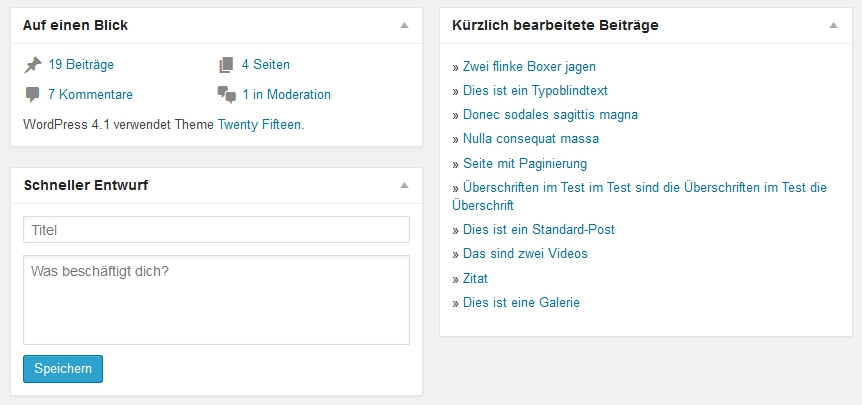
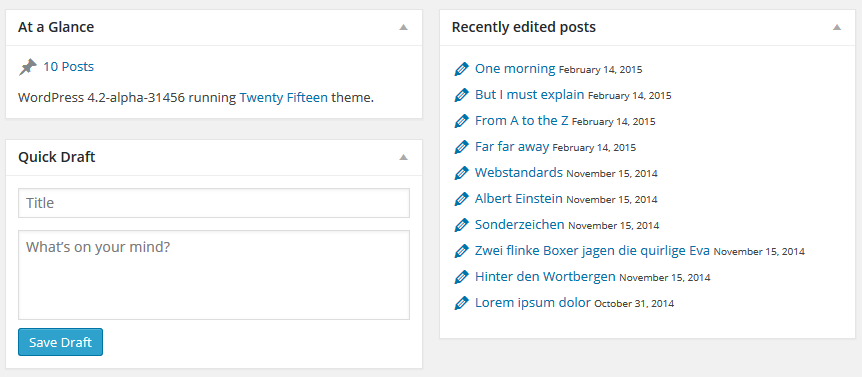
updated screenshot-1.png new screenshot-2.png various improvements
git-svn-id: https://plugins.svn.wordpress.org/admin-dashboard-last-edits/trunk@1089745 b8457f37-d9ea-0310-8a92-e5e31aec5664

diff --git a/admin-dashboard-last-edits.php b/admin-dashboard-last-edits.php
@@ -2,8 +2,8 @@
 /**
  * Plugin Name: Admin Dashboard Last Edits
  * Plugin URI: http://wpdoc.de/plugins/
- * Description: Easy and lightweight solution for showing the last edited posts on the admin dashboard.
- * Version: 1.0 
+ * Description: Easy and lightweight solution for showing the last edited posts and pages on the admin dashboard.
+ * Version: 1.1 
  * Author: Johannes Ries
  * Author URI: http://wpdoc.de
  * Text Domain: admin-dashboard-last-edits
@@ -43,13 +43,15 @@ function admin_dashboard_last_edits_dashboard_widget() {
 
 /**
  * @todo Icons for post formats
- * @todo Add option to configure how many posts should be shown 
+ * @todo Add option to configure how many posts should be shown
+ * @todo Add option to show only posts or pages   
  */ 
   
   if ( $posts ) {
+    $date_format = get_option( 'date_format' );
     echo '<ul>';
-    foreach ( $posts as $post ) { 
-      printf('<li>&raquo; <a href="%1$s">%2$s</a></li>', esc_html( get_permalink( $post->ID )), esc_html( $post->post_title )); 
+    foreach ( $posts as $post ) {
+      printf( __( '<li><a href="%1$s" title="Edit %3$s"><span class="dashicons dashicons-edit"></span></a> <a href="%2$s" title="View %3$s on website">%3$s</a> <small>%4$s</small>', 'admin-dashboard-last-edits' ), esc_html( get_edit_post_link( $post->ID ) ), esc_html( get_permalink( $post->ID ) ), esc_html( $post->post_title ), esc_html( get_post_modified_time( $date_format, false, $post->ID, true )) ); 
     }
     echo '</ul>';
   }

diff --git a/README.md b/README.md
@@ -1,2 +1,33 @@
-# admin-dashboard-last-edits
-Easy and lightweight solution for showing the last edited posts on the WordPress admin dashboard.
+# Admin Dashboard Last Edits
+Easy and lightweight solution for showing the last edited posts and pages on the WordPress admin dashboard.
+
+## Description
+Admin Dashboard Last Edits is an asy and lightweight solution for showing the last edited posts and pages on the admin dashboard. 
+
+### Features
+* Admin Dashboard Widget with the last edited posts and pages
+* Available in two languages: English, German.
+
+### Bug reports and Contribution
+Hints, bug reports, translations and other contributions are highly appreciated. Please visit the [plugins github page](https://github.com/wpdocde/admin-dashboard-last-edits).
+
+### Credits
+Admin Dashboard Last Edits is developed by [Johannes Ries](http://wpdoc.de).
+
+## Installation
+1. Download the plugin and unzip the zip-file.
+2. Upload the folder `admin-dashboard-last-edits` to the `/wp-content/plugins/` directory.
+3. Activate the plugin through the `Plugins` menu.
+
+## Frequently Asked Questions
+### Can I change the number of posts being displayed?
+At the moment this is possible only through manually editing the plugin. Maybe this option will come in a future version.
+
+### I found a bug. How can I get in touch?
+
+Please comment an existing or create a new issue on the [plugins github page](https://github.com/wpdocde/admin-dashboard-last-edits/issues).
+
+### I made a new translation. How can I submit it?
+
+Please create a pull request on the [plugins github page](https://github.com/wpdocde/admin-dashboard-last-edits/pulls).
+
